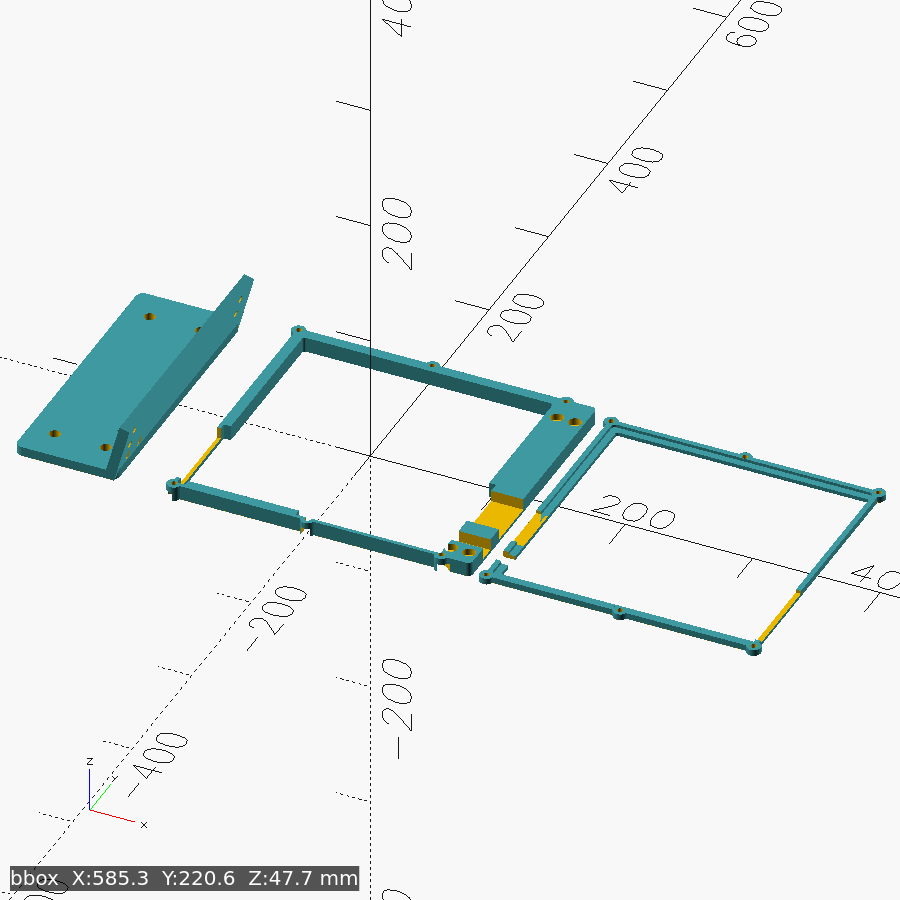
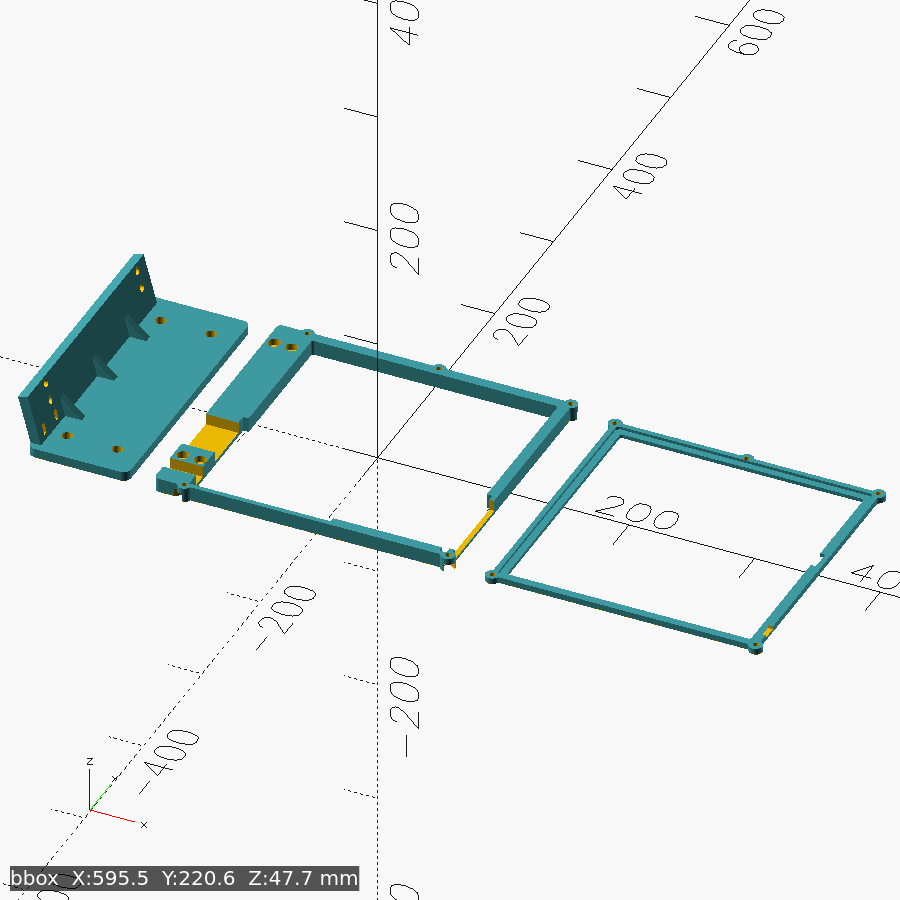
uniflag: rev 3

diff --git a/projects/uniflag/SPEC.md b/projects/uniflag/SPEC.md
@@ -3,13 +3,36 @@
 Mount a Pimoroni Cosmic Unicorn (32×32 RGB matrix, the owner's
 [uniflag firmware](https://github.com/nickolaj-jepsen/uniflag), SimHub over
 USB CDC) on the **outboard face of the right wheel-deck upright** of a GT Omega
-PRIME Lite, screen facing the driver. All units mm. Status: **design rev 2 —
+PRIME Lite, screen facing the driver. All units mm. Status: **design rev 3 —
 modelled and geometry-verified** (all three bodies watertight, single-shell,
 asserts green, strict board/plug collision test renders empty), **not yet
 printed**. Reference data: [docs/](docs/) (DXF-exact board geometry,
 cross-checked); all five photo-uncertain dimensions caliper-verified below.
 
-## As built (rev 2 — printability rework, 2026-06-11)
+## Rev 3 (2026-06-11) — chirality fix + fit corrections
+
+- **Mirror bug**: rev 2's model space (front-view x/y, +z toward the rig) was
+  left-handed — every part rendered mirrored. Model space is now +z toward
+  the driver and the bracket wall sits at the seat-side plate end; each part
+  verified as the exact mirror of its rev-2 counterpart (equal volumes,
+  boolean-XOR residue ≤ 1e-5 %) **before** the fit corrections below.
+- Caliper second pass: **USB centre 17** (was 23 — mis-measured): window
+  y 11–23, M5 row 1 → board-y 30, just **above** the tunnel (below it the
+  counterbore reaches the bottom-left ear's nut pocket — now asserted).
+  **Light sensor on the front-view LEFT edge** (x ≈ 4, y ≈ 116): the rev-2
+  "right edge" record was read in the mirrored convention.
+- Ring: full four-edge lip, sensor window y 108–124 in the left lip; button
+  notches deleted (plungers actuate behind the board — the frame reach-ins
+  cover them); **USB cut skirt-deep only** (the boot tops out at the board's
+  front face, tested) so the face ring runs unbroken.
+- M4 sandwich: **5 bolts** — the mid-bottom ear sat on the Qw/ST cluster and
+  its keep-out breached the bore; rear-lip keep-outs now stop at the board
+  clearance line, keeping ≥1.1 mm walls on the bottom corner bores.
+- Bracket wall spans only the plate's straight edge (pl_r short per end) —
+  its ends meet the plate edge at the corner-arc tangents; no overhang past
+  the rounding, all joints planar.
+
+## Rev 2 (superseded — printability rework, 2026-06-11)
 
 Rev 1 verified geometrically but printed badly: its frame carried a back
 rib floating 8 mm over the open window (a 198 mm supported span) plus
@@ -89,22 +112,22 @@ Design uses **M8×14** (rail), **M5** (flange), **M4** (frame sandwich) only.
 
 - Outline **204.00 × 204.00**, corner r3, max depth 10.2 (at the JST connector).
 - Edge cutouts the frame must provide:
-  - left wall: **USB window** y ≈ 11–23 (port shell y 13.5–20.5, photo-derived —
-    *measure*), **A/B/C/D button window** y ≈ 40–86 (buttons at 44.6/56.8/68.8/80.8 ±1)
+  - left wall: **USB window** y ≈ 11–23 (port centre 17, caliper-confirmed
+    2026-06-11 second pass), **A/B/C/D button window** y ≈ 40–86 (buttons at 44.6/56.8/68.8/80.8 ±1)
   - right wall: **button window** y ≈ 6–72 (Lux−/Lux+/Zzz/Vol−/Vol+ at 9.2/21.1/~37/57.4/69.3 ±1)
-  - buttons protrude ~1–2 past the outline (*estimate — measure*)
+  - buttons rear-mounted with **flush** plungers — nothing protrudes (caliper 2026-06-11)
 - Rear-lip keep-outs (rear face, near edges): Pico x ≈ 1–53 / y ≈ 4–30
   (left-bottom), Qw/ST + RESET bottom-centre (x ≈ 75–107, y ≲ 25), JST at
   ~(119, 18). Top edge and right edge y > 72 are clean (±3, photo-derived).
 - Top hanging slot x 94–110 — treat as keep-out, don't rely on it.
 - Front lip: stay out of the speaker grille (x 134–152, y 30–42 — interior, a
-  ≤5 lip never reaches it) and the **light sensor**: front face, right-hand
-  edge, x ≈ 198–202 (two independent reviews + border geometry), **y unknown**
-  (no image source could be measured) → the ring runs **no continuous lip on
-  the right edge — corner tabs only**, so the sensor stays exposed at any y.
-- Edge buttons protrude ~1.5 nominal (side-actuated SMD tactile class, not
-  published) → side walls keep ≥2.5 inner offset from the PCB edge along
-  button rows.
+  ≤5 lip never reaches it) and the **light sensor**: front face, **left-hand
+  edge, x ≈ 4, y ≈ 116** (caliper; the earlier "right edge x ≈ 198–202" reads
+  were taken in the rev-2 mirrored convention — 204 − 200 = 4) → the ring runs
+  a full four-edge lip with a **sensor window at y 108–124 in the left lip**.
+- Edge buttons (caliper 2026-06-11): rear-mounted, **flush** plungers, bodies
+  ~5 in from the edge on the back — nothing protrudes, so the locating skirt
+  may run at `bd_clr` along the button rows.
 
 ## Loads
 
@@ -119,17 +142,17 @@ Visual guide: [docs/must-measure.svg](docs/must-measure.svg).
 
 | # | Measured | Model consequence |
 |---|---|---|
-| 1a | USB port centre **23** above the bottom edge (photos said ~17!) | `usb_cy=23`, window `usb_y=[17,29]`; M5 ear #1 moved to y 36 with 1.0 clearances (asserted) |
+| 1a | USB port centre **23** above the bottom edge (photos said ~17!) — **mis-measured; corrected to 17 on the second pass** (the photos were right) | `usb_cy=17`, window `usb_y=[11,23]`, M5 row 1 at board-y 30 (above the tunnel) |
 | 1b | Plug boot **30** past the edge | `plug_len=30`, `gap` 40 → **42** to keep rail clearance |
 | 2 | Border stack **~2.0** (not bare 1.6 PCB) | `pcb_t=2.0` → channel 2.35; ring now 5.35 thick; M4 stack re-checked by asserts |
-| 3 | Buttons rear-mounted, **flush** plungers, bodies ~5 in from the edge | nothing protrudes → windows are fingertip reach-ins: `btn_nd` 6 → 8, left window [43,84]; rear keep-outs already covered the bodies |
+| 3 | Buttons rear-mounted, **flush** plungers, bodies ~5 in from the edge | nothing protrudes → windows are fingertip reach-ins: `btn_nd` 6 → 9, left window [43,84]; rear keep-outs already covered the bodies |
 | 4 | Rear component boxes confirmed roughly right | keep-outs unchanged |
-| 5 | Light sensor at **y ≈ 116** on the right edge (x ≈ 200) | inside the fully-open right edge — no change; recorded for any future right-lip revision |
+| 5 | Light sensor at **y ≈ 116** on the right edge (x ≈ 200) — **edge corrected on the second pass: front-view LEFT, x ≈ 4** (the first read used the rev-2 mirrored convention) | four-edge lip with a sensor window y 108–124 in the left lip |
 
 All three bodies re-verified watertight/single-shell and the strict collision
-test (board + measured 30 mm boot ghost reaching 2.5 behind the board plane)
-renders empty. The USB cut now goes through the full ring depth — the boot
-crosses the board plane, so the rim is C-shaped there (still one body).
+test (board + measured 30 mm boot ghost) renders empty. Rev 3: the boot tops
+out at the board's front face (tested), so the ring's USB cut is skirt-deep
+only and the face ring runs unbroken — no C-shaped rim.
 
 ## Superseded: original must-measure list
 

diff --git a/projects/uniflag/docs/verified-dimensions.md b/projects/uniflag/docs/verified-dimensions.md
@@ -205,3 +205,13 @@ These supersede every photo-derived estimate above:
 - **Rear component map: confirmed** roughly as drawn (±3 mm boxes hold).
 - **Light sensor: y ≈ 116 mm** above the bottom edge, on the right-edge
   front border (x ≈ 200) — the previously unknown coordinate.
+
+### Second pass (2026-06-11, after the rev-3 chirality fix) — two corrections
+
+- **USB port centre: 17 mm** above the bottom edge, not 23 — the first pass
+  mis-measured; the photo estimate (~17, shell y 13.5–20.5) was right after
+  all. Window moved to y 11–23.
+- **Light sensor: front-view LEFT edge (x ≈ 4), y ≈ 116** — same side as the
+  USB/Pico. The first pass's "right edge (x ≈ 200)" was read against the
+  rev-2 model, which was mirrored left-right (see the uniflag.scad header);
+  204 − 200 = 4. The y value stands.

diff --git a/projects/uniflag/README.md b/projects/uniflag/README.md
@@ -10,7 +10,7 @@ in the slicer); design rationale and DXF-exact board data in
 
 **Parts:** `bracket` (rail plate + short leaning wall), `frame` (rear ring
 the board drops into, extended into a flat M5 bolt flange), `ring` (front
-clamp ring; right edge open for the light sensor). Render/verify one body
+clamp ring; sensor window in the left lip). Render/verify one body
 with `scad render uniflag --tag frame -D 'part="frame"'`; `part="assembly"`
 shows the fit, `part="collide"` must render empty.
 
@@ -21,11 +21,11 @@ grid), `m8_y` rows, `board_y0`.
 
 **Hardware:** 4× M8×14 + T-nuts (rail), 4× M5×30 + washers + nuts (flange →
 wall; socket heads sink into flange counterbores, nuts on the monitor side),
-6× M4×14 + nuts (ring → frame; nuts drop into the back-opening pockets).
+5× M4×14 + nuts (ring → frame; nuts drop into the back-opening pockets).
 
 **Assembly:** bracket to the rail with M8s, slide to height, tighten →
 **M4 nuts into the frame's back pockets first** (the wall covers the
-left-corner pockets once mounted) → frame onto the wall, M5×30s through the
+bottom-left pocket once mounted) → frame onto the wall, M5×30s through the
 front counterbores, washer + nut behind the wall (before the board goes in —
 the ring overlaps the counterbore mouths) → board into the frame → ring on,
 M4s from the front. Zip-tie the USB cable through the wall-foot slots below
@@ -35,7 +35,8 @@ the plug tunnel.
 rail-face down (15° wall is self-supporting, M5 bores teardropped), frame
 back-face down (notches open upward), ring front-face down. PETG (the A1 is
 open-frame — ASA will warp at this footprint), 0.2 mm layers, ≥4 walls,
-40–50 % infill, **no supports, no bridges**. Use a 5 mm brim on the frame
+40–50 % infill, **no supports**; no bridges beyond trivial spans (nut-pocket
+floors, zip-slot ceilings). Use a 5 mm brim on the frame
 and ring and a textured PEI sheet against corner lift; the bracket plate's
 big rounded corners + elephant-foot chamfer are the warp relief.
 

diff --git a/projects/uniflag/docs/hardware-reference.md b/projects/uniflag/docs/hardware-reference.md
@@ -47,6 +47,7 @@ GPIOs from [cosmic_unicorn.hpp](https://github.com/pimoroni/pimoroni-pico/blob/m
 Examples confirm labels: "adjust the brightness with LUX + and -", VOL +/- for volume ([examples README](https://github.com/pimoroni/unicorn/blob/main/examples/cosmic_unicorn/README.md)).
 
 **Mount implication: do not enclose the left or right PCB edges — all 9 buttons actuate from those edges.**
+*(Superseded 2026-06-11, owner caliper: plungers are flush rear-mounted — a locating skirt at the edge is fine; keep fingertip reach-in windows. See verified-dimensions.md.)*
 
 ## 3. Onboard peripherals
 
@@ -97,11 +98,11 @@ Also in pimoroni-pico: C++ library at `libraries/cosmic_unicorn/` ([README](http
 ## Open questions (need physical measurement or user input)
 
 - Exact rear component stack height above the PCB (speaker puck, Pico module, JST connectors) for standoff length — official depth is 10.2 mm overall with no breakdown; physically measure the speaker height before fixing standoff length (estimate 6-7 mm, suggest >= 8 mm standoffs)
-- PCB thickness (assumed 1.6 mm, not published)
-- How far the edge-button caps protrude beyond the PCB edge (looks ~1 mm in photos) — affects any side-rail or bezel clearance
-- Exact recess of the micro-USB connector relative to the left board edge and minimum plug clearance — measure with the intended cable
+- PCB thickness (assumed 1.6 mm, not published) — **answered 2026-06-11** (owner caliper): border stack ~2.0 mm
+- How far the edge-button caps protrude beyond the PCB edge (looks ~1 mm in photos) — **answered 2026-06-11**: rear-mounted, flush plungers, nothing protrudes
+- Exact recess of the micro-USB connector relative to the left board edge and minimum plug clearance — **answered 2026-06-11**: centre 17 mm above the bottom edge, boot 30 mm past the edge (owner's cable)
 - Which revision the user owns (original Pico W vs Pico 2 W, Dec-2024 onward) — mechanically identical per the shared CAD files on the product page, but worth confirming since firmware builds differ
-- Exact location of the front-face phototransistor (light sensor) so the mount/bezel does not shade it — small orange parts visible in the drawing but not labelled
+- Exact location of the front-face phototransistor (light sensor) so the mount/bezel does not shade it — **answered 2026-06-11** (owner caliper, second pass): front-view LEFT edge, x ≈ 4 / y ≈ 116; see verified-dimensions.md
 - Board weight (not published anywhere found)
 - Whether the M2 mounting holes are plated/grounded (affects use of metal screws against an aluminium rig)
 